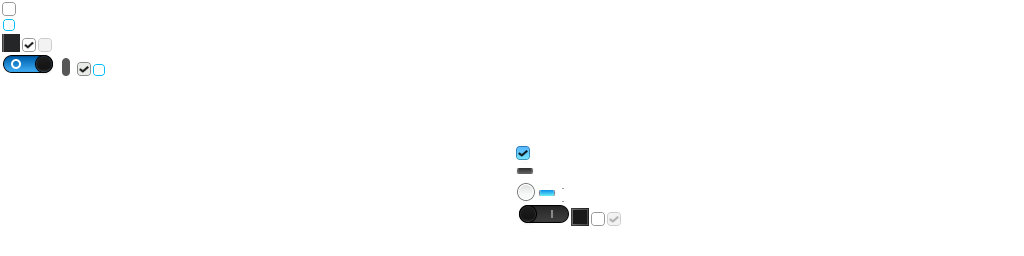
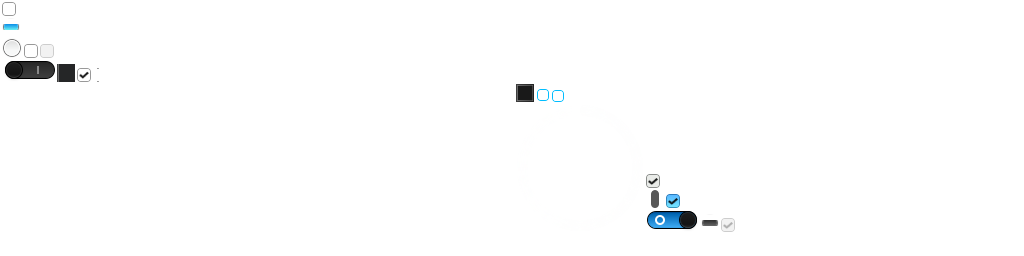
Add a loading animation for git tasks and have the background fade out

diff --git a/src/View/States.java b/src/View/States.java
@@ -42,12 +42,14 @@ enum States implements State<MainScreen>
 
 					@Override
 					public void endTask() { 
+						scene.loadingAnimation.showLoading();
 						scene.updateLabel.addAction(
 							Actions.sequence(
 								Actions.alpha(0f, .3f),
 								Actions.run(new Runnable(){
 									public void run()
 									{
+										scene.loadingAnimation.showLoading();
 										//change the label's text
 										scene.updateLabel.setText("Cloning Complete, enjoy the game");
 										scene.updateLabel.pack();
@@ -79,6 +81,7 @@ enum States implements State<MainScreen>
 				};
 				
 				final Thread gitThread = GitUtils.cloneRepo(scene.repository, scene.branch, gameDir, monitor);
+				scene.background.addAction(Actions.alpha(.5f, .2f, Interpolation.linear));
 				scene.mainButtons.setVisible(false);
 				scene.updateLabel.addAction(
 					Actions.sequence(
@@ -105,8 +108,15 @@ enum States implements State<MainScreen>
 			}
 			else
 			{
+				scene.background.addAction(Actions.alpha(1f, .2f, Interpolation.linear));
 				scene.mainButtons.addAction(Actions.alpha(1f, .4f));
 			}
+		}
+		
+		@Override
+		public void exit(MainScreen scene)
+		{
+			scene.background.addAction(Actions.alpha(.5f, .2f, Interpolation.linear));
 		}
 		
 		@Override
@@ -204,6 +214,7 @@ enum States implements State<MainScreen>
 						Actions.run(new Runnable(){
 							public void run()
 							{
+								scene.loadingAnimation.showLoading();
 								//change the label's text
 								scene.updateLabel.setText(String.format(format, scene.repository, scene.branch));
 								scene.updateLabel.pack();
@@ -255,6 +266,7 @@ enum States implements State<MainScreen>
 					Actions.run(new Runnable(){
 						public void run()
 						{
+							scene.loadingAnimation.hideLoading();
 							//change the label's text
 							scene.updateLabel.setText("Game Files are up to date!");
 							scene.updateLabel.pack();
@@ -452,4 +464,14 @@ enum States implements State<MainScreen>
 
 	@Override
 	public void update(MainScreen arg0) { }
+	
+	private void loadingAnimation(MainScreen scene)
+	{
+		
+	}
+	
+	private void hideLoading(MainScreen scene)
+	{
+		
+	}
 }

diff --git a/src/View/MainScreen.java b/src/View/MainScreen.java
@@ -11,6 +11,7 @@ import com.badlogic.gdx.ai.fsm.StateMachine;
 import com.badlogic.gdx.ai.msg.MessageDispatcher;
 import com.badlogic.gdx.ai.msg.Telegram;
 import com.badlogic.gdx.files.FileHandle;
+import com.badlogic.gdx.graphics.GL20;
 import com.badlogic.gdx.graphics.Texture;
 import com.badlogic.gdx.scenes.scene2d.Actor;
 import com.badlogic.gdx.scenes.scene2d.InputEvent;
@@ -59,6 +60,7 @@ public class MainScreen implements Screen, Agent {
 	//label used for indicating download and update progress of the app
 	Label updateLabel;
 	protected ScrollPane cleanDialog;
+	LoadingAnimation loadingAnimation;
 	
 	@Override
 	public void show() {
@@ -253,6 +255,8 @@ public class MainScreen implements Screen, Agent {
 		
 		mainButtons = buttonList;
 		mainButtons.setColor(1,1,1,0);
+		
+		loadingAnimation = new LoadingAnimation(skin, ui);
 
 		//create the ui state machine
 		uiMachine.changeState(States.Home);
@@ -272,6 +276,9 @@ public class MainScreen implements Screen, Agent {
 
 	@Override
 	public void render(float delta) {
+		Gdx.gl.glClearColor(0, 0, 0, 1);
+		Gdx.gl.glClear(GL20.GL_COLOR_BUFFER_BIT | GL20.GL_DEPTH_BUFFER_BIT);
+		
 		ui.act(delta);
 		update(delta);
 		

diff --git a/src/View/LoadingAnimation.java b/src/View/LoadingAnimation.java
@@ -1,0 +1,43 @@
+package View;
+
+import com.badlogic.gdx.math.Interpolation;
+import com.badlogic.gdx.scenes.scene2d.Stage;
+import com.badlogic.gdx.scenes.scene2d.actions.Actions;
+import com.badlogic.gdx.scenes.scene2d.ui.Image;
+import com.badlogic.gdx.scenes.scene2d.ui.Skin;
+
+public class LoadingAnimation {
+
+	Image spin;
+	
+	public LoadingAnimation(Skin skin, Stage stage)
+	{
+		spin = new Image(skin.getDrawable("loading"));
+		spin.setPosition(stage.getWidth()/2f-spin.getWidth()/2f, stage.getHeight()/2f-spin.getHeight()/2f);
+		spin.setOrigin(spin.getWidth()/2f, spin.getHeight()/2f);
+		spin.setColor(1, 1, 1, 0f);
+		stage.addActor(spin);
+	}
+	
+	public void showLoading()
+	{
+		spin.clearActions();
+		spin.addAction(
+			Actions.sequence(
+				Actions.rotateTo(0f),
+				Actions.parallel(
+					Actions.alpha(1f, .5f), 
+					Actions.repeat(-1, 
+						Actions.rotateBy(360f, 1.5f, Interpolation.sine)
+					)
+				)
+			)
+		);
+	}
+	
+	public void hideLoading()
+	{
+		spin.clearActions();
+		spin.addAction(Actions.alpha(0f,.5f));
+	}
+}
